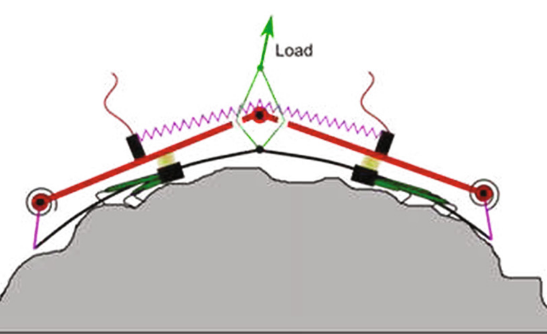
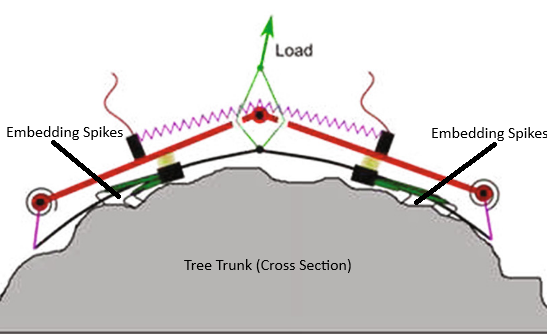
Add some labels in let review photos

diff --git a/sections/litrev.tex b/sections/litrev.tex
@@ -192,8 +192,8 @@ concept of using microscale spikes to grasp the small textural features of a rou
 \begin{figure}[H]
     \centering
     \includegraphics[width=\textwidth]{screenshots/fixedwing-spines.png}
-    \caption{Example illustration of an embedding-type perching device, intended 
-    for perching on vertical surfaces. Adapted from \cite{lussier_desbiens_landing_2010}.}
+    \caption{Example illustration of an embedding-type perching device, intended for perching on vertical surfaces. 
+    Note the small spike that hangs from small bumps in the vertical surface. Adapted from \cite{lussier_desbiens_landing_2010}.}
     \label{fig:fixwing-spines}
 \end{figure}
 
@@ -205,7 +205,8 @@ shows that it is still operating by grasping onto smaller scale features.
 \begin{figure}[H]
     \centering
     \includegraphics[width=\textwidth]{screenshots/bark gripper.png}
-    \caption{Perching device designed to attach to the vertical side of a tree trunk. Adapted from \cite{roderick_bioinspired_2017}.}
+    \caption{Perching device designed to attach to the vertical side of a tree trunk. The embedding spikes grasp the small 
+    scale texture of the tree's bark from opposing sides, like a miniature grasping device. Adapted from \cite{roderick_bioinspired_2017}.}
     \label{fig:gripper}
 \end{figure}
 
@@ -227,7 +228,8 @@ to provide the attaching force, this device can only attach drones to ferrous su
 \begin{figure}[H]
     \centering
     \includegraphics[width=\textwidth]{screenshots/electroadhesive.png}
-    \caption{Example of an attaching based perching device that uses electrostatic adhesion. Adapted from \cite{graule_perching_2016}.}
+    \caption{Example of an attaching based perching device that uses electrostatic adhesion. The circular element at the top of the image 
+    is the source of the electrostatic adhesion. Adapted from \cite{graule_perching_2016}.}
     \label{fig:electroadhesive}
 \end{figure}
 
